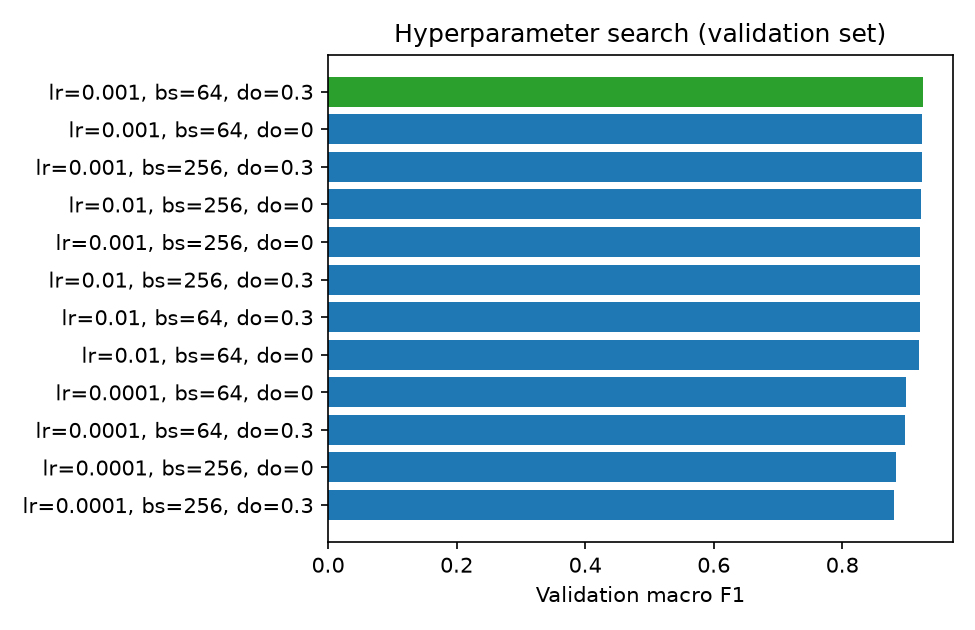
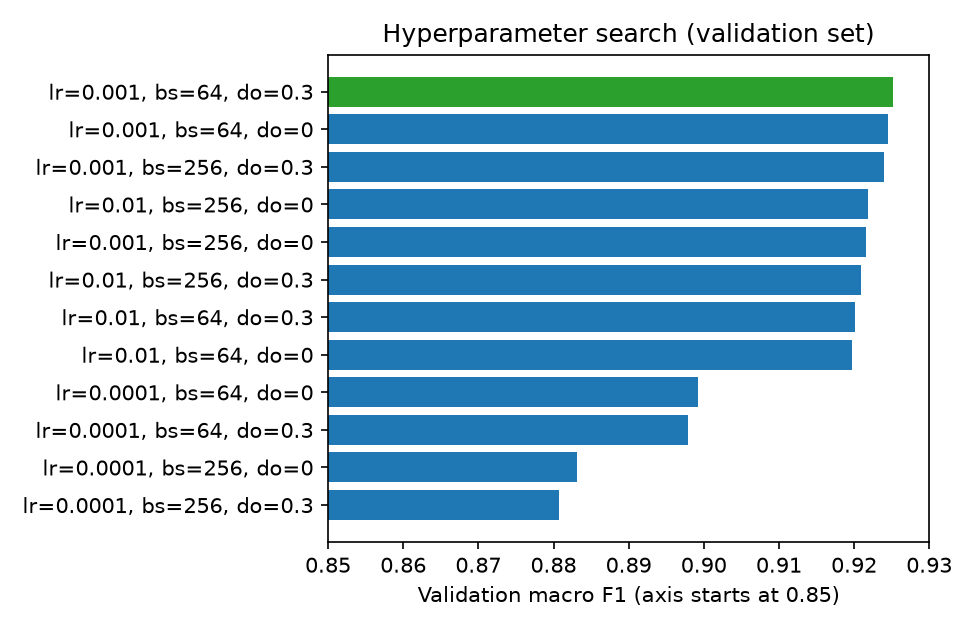
Regenerate figures and error table with readable layout

diff --git a/report/tables/errors.tex b/report/tables/errors.tex
@@ -1,14 +1,14 @@
-\begin{tabular}{p{4.6cm}p{2.2cm}p{3cm}p{3cm}}
+\begin{tabular}{p{4.2cm}p{2.4cm}p{3.4cm}p{3.6cm}}
 \toprule
 Product title & Brand & True labels & Predicted \\
 \midrule
-EARRINGS (E2840/111/131) & Ethnc & concert & casual|office|presentation \\
-CHUNKY SLIDES & Lama & concert & casual|concert \\
-White Cotton Shalwar (MPS25SH1W004) & Bonanza Satr & casual|wedding & casual \\
-Regil Long & Lulusar & casual & casual|concert|office|presentation \\
-SHIRT (E0750/119/112) & Ethnc & wedding & office|presentation|wedding \\
-SKIRT (E3602/108/901) & Ethnc & office|presentation & office|presentation|wedding \\
-Bella - 3 PC (WSS25P3024) & Bonanza Satr & concert|office|presentation|wedding & casual|concert|office|presentation \\
-BROWN TRENDY PESHAWARI SANDALS & J. & casual|wedding & casual \\
+EARRINGS (E2840/111/131) & Ethnc & concert & casual, office, presentation \\
+CHUNKY SLIDES & Lama & concert & casual, concert \\
+White Cotton Shalwar (MPS25SH1W004) & Bonanza Satr & casual, wedding & casual \\
+Regil Long & Lulusar & casual & casual, concert, office, presentation \\
+SHIRT (E0750/119/112) & Ethnc & wedding & office, presentation, wedding \\
+SKIRT (E3602/108/901) & Ethnc & office, presentation & office, presentation, wedding \\
+Bella - 3 PC (WSS25P3024) & Bonanza Satr & concert, office, presentation, wedding & casual, concert, office, presentation \\
+BROWN TRENDY PESHAWARI SANDALS & J. & casual, wedding & casual \\
 \bottomrule
 \end{tabular}
